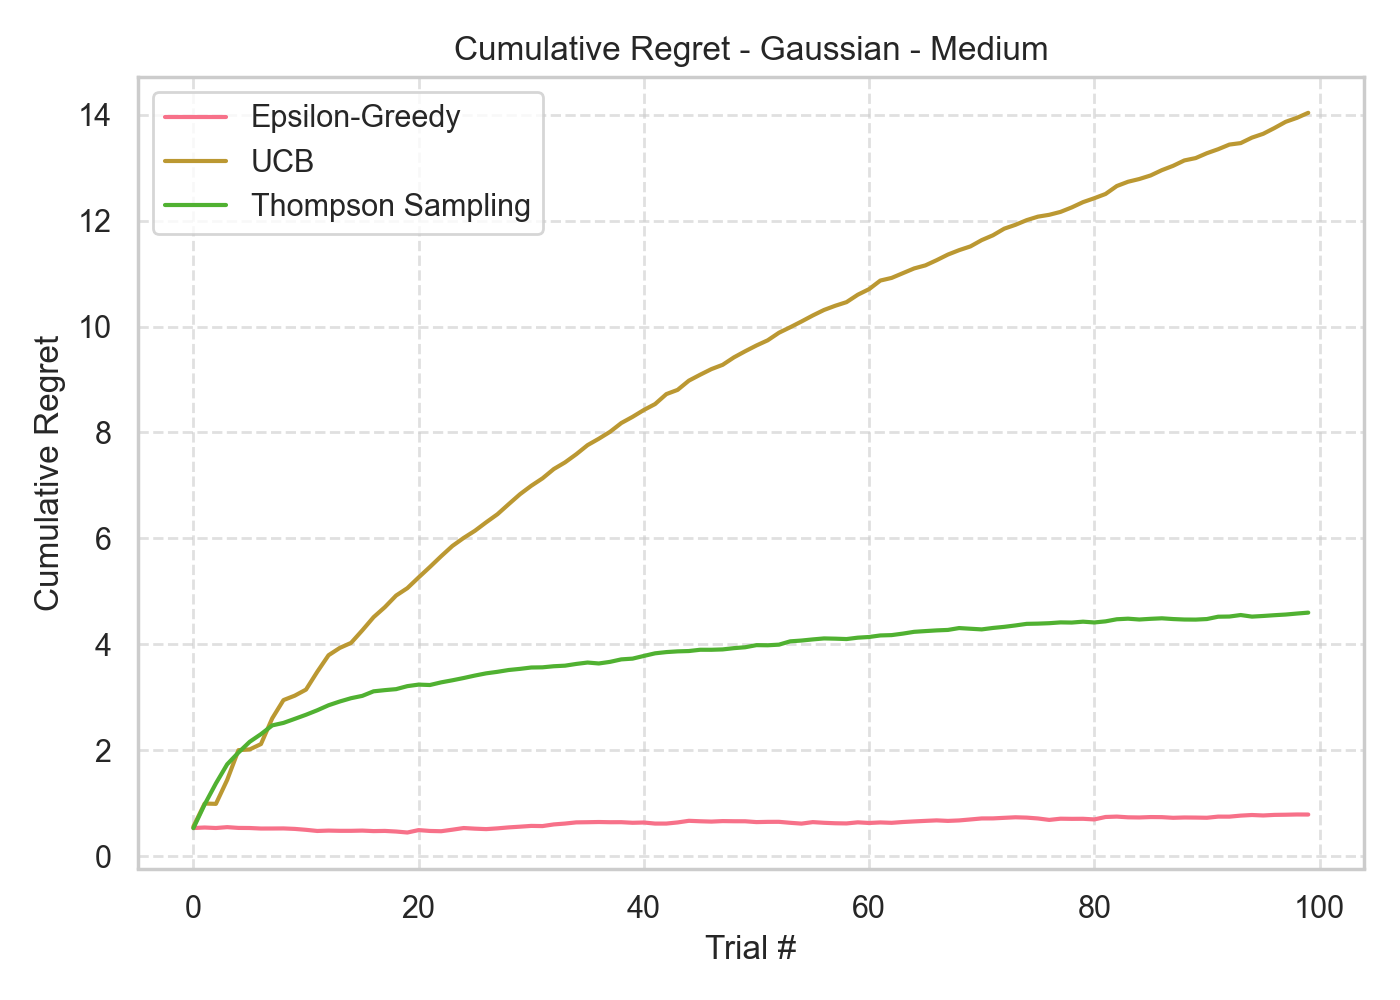
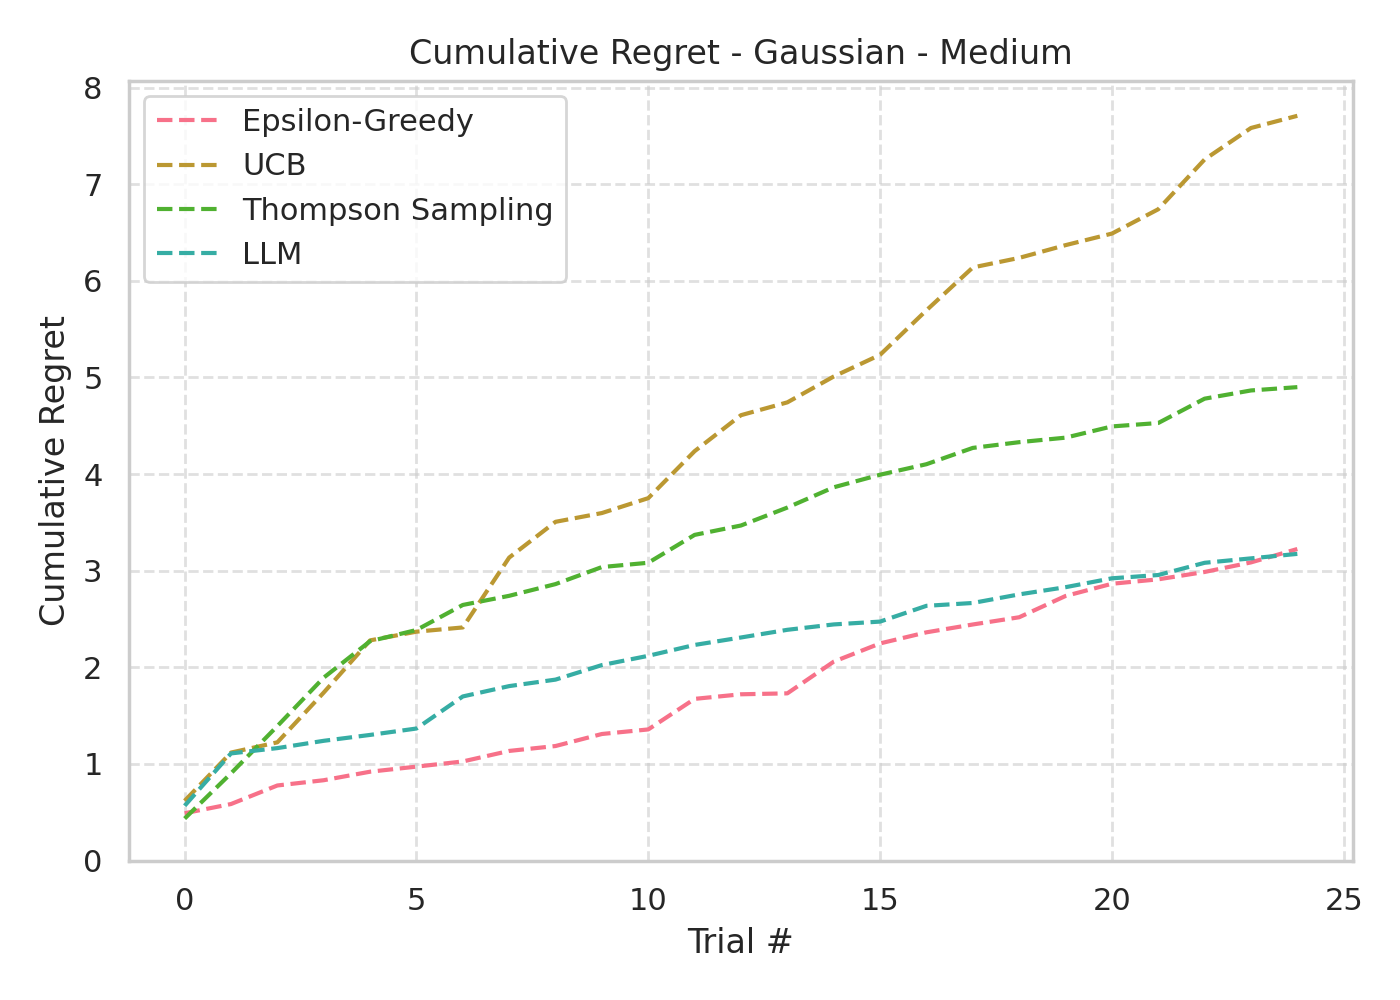
Updates on The Scenarios and their Plots

diff --git a/scenario.py b/scenario.py
@@ -2,7 +2,7 @@ import numpy as np
 import matplotlib.pyplot as plt
 from typing import List, Tuple, Dict, Optional
 import seaborn as sns
-# from agents.llm_agent import LLMAgent  # Commented out LLM agent
+from agents.llm_agent import LLMAgent
 from agents.epsilon import EpsilonGreedyAgent
 from agents.gaussian_epsilon_greedy import GaussianEpsilonGreedyAgent
 from agents.ucb import UCBAgent
@@ -38,7 +38,7 @@ class BanditScenario:
             'Epsilon-Greedy': EpsilonGreedyAgent(epsilon=0.1, environment_type='bernoulli'),
             'UCB': UCBAgent(),
             'Thompson Sampling': ThompsonSamplingAgent(environment_type='bernoulli'),
-            # 'LLM': LLMAgent(model="gpt-4.1-nano"),  # Commented out LLM agent
+            'LLM': LLMAgent(model="gpt-4.1-nano"),
         }
         
         # Initialize agents for Gaussian bandit
@@ -46,7 +46,7 @@ class BanditScenario:
             'Epsilon-Greedy': GaussianEpsilonGreedyAgent(n_arms=n_arms, epsilon=0.1),
             'UCB': GaussianUCBAgent(n_arms=n_arms),
             'Thompson Sampling': GaussianThompsonSamplingAgent(n_arms=n_arms),
-            # 'LLM': LLMAgent(model="gpt-4.1-nano"),  # Commented out LLM agent
+            'LLM': LLMAgent(model="gpt-4.1-nano"),
         }
         
         # Set up plotting style
@@ -152,17 +152,45 @@ class BanditScenario:
                 results[agent_name][episode, :] = rewards
         return results, optimal_per_episode
         
+    def calculate_cumulative_regret(self, rewards, optimal_rewards):
+        """Calculate cumulative regret ensuring it's non-decreasing.
+        
+        Args:
+            rewards: Array of shape (n_episodes, n_trials) with rewards for each trial
+            optimal_rewards: Array of shape (n_episodes,) with optimal reward for each episode
+            
+        Returns:
+            Array of shape (n_episodes, n_trials) with cumulative regret
+        """
+        n_episodes, n_trials = rewards.shape
+        cumulative_regret = np.zeros_like(rewards)
+        
+        for ep in range(n_episodes):
+            optimal = optimal_rewards[ep]
+            regret = np.maximum(0, optimal - rewards[ep])  # Ensure non-negative regret
+            cumulative_regret[ep] = np.cumsum(regret)
+            
+            # Ensure regret is non-decreasing (handle any numerical issues)
+            for t in range(1, n_trials):
+                if cumulative_regret[ep, t] < cumulative_regret[ep, t-1]:
+                    cumulative_regret[ep, t] = cumulative_regret[ep, t-1]
+                    
+        return cumulative_regret
+
     def plot_cumulative_regret(self, results, optimal_per_episode, scenario, env_type):
         plt.figure(figsize=(7, 5))
         for agent_name, rewards in results.items():
-            regret = np.cumsum(optimal_per_episode[:, None] - rewards, axis=1)
-            mean_regret = regret.mean(axis=0)
-            plt.plot(mean_regret, label=agent_name, linestyle='--')  # Use dashed lines
+            # Calculate cumulative regret
+            cumulative_regret = self.calculate_cumulative_regret(rewards, optimal_per_episode)
+            mean_regret = cumulative_regret.mean(axis=0)
+            plt.plot(mean_regret, label=agent_name, linestyle='--')
+            
         plt.title(f'Cumulative Regret - {env_type} - {scenario.capitalize()}')
         plt.xlabel('Trial #')
         plt.ylabel('Cumulative Regret')
         plt.legend()
         plt.grid(True, linestyle='--', alpha=0.6)
+        plt.ylim(bottom=0)  # Ensure y-axis starts at 0
         plt.tight_layout()
         plt.savefig(os.path.join(self.plot_dir, f'cumulative_regret_{env_type}_{scenario}.png'), dpi=200)
         plt.close()
@@ -182,24 +210,29 @@ class BanditScenario:
         scenarios = ['easy', 'hard']
         results_list = [easy_results, hard_results]
         optimal_list = [easy_optimal, hard_optimal]
-        for i, (results, optimal, scenario) in enumerate(zip(results_list, optimal_list, scenarios)):
-            plt.subplot(1, 2, i+1)
+        
+        for i, (results, optimal, scenario) in enumerate(zip(results_list, optimal_list, scenarios), 1):
+            plt.subplot(1, 2, i)
             for agent_name, rewards in results.items():
-                regret = np.cumsum(optimal[:, None] - rewards, axis=1)
-                mean_regret = regret.mean(axis=0)
+                # Calculate cumulative regret using the proper method
+                cumulative_regret = self.calculate_cumulative_regret(rewards, optimal)
+                mean_regret = cumulative_regret.mean(axis=0)
                 plt.plot(mean_regret, label=agent_name, linestyle='--')
+                
             plt.title(f'{env_type} - {scenario.capitalize()}')
             plt.xlabel('Trial #')
             plt.ylabel('Cumulative Regret')
             plt.legend()
             plt.grid(True, linestyle='--', alpha=0.6)
+            plt.ylim(bottom=0)  # Ensure y-axis starts at 0
+            
         plt.tight_layout()
         plt.savefig(os.path.join(self.plot_dir, f'{env_type.lower()}_easy_hard_subplot.png'), dpi=200)
         plt.close()
 
 def main():
     scenarios = ['easy', 'medium', 'hard', 'uniform']
-    bandit_scenario = BanditScenario(n_trials=1000, n_episodes=200)
+    bandit_scenario = BanditScenario(n_trials=25, n_episodes=10)
     regret_summary = {'Bernoulli': [], 'Gaussian': []}
     bernoulli_results_dict = {}
     bernoulli_optimal_dict = {}
@@ -217,13 +250,13 @@ def main():
         bandit_scenario.plot_cumulative_regret(gaussian_results, gaussian_optimal, scenario, 'Gaussian')
         gaussian_results_dict[scenario] = gaussian_results
         gaussian_optimal_dict[scenario] = gaussian_optimal
-        # For heatmap: store final cumulative regret for each agent (use per-episode optimal)
+        # For heatmap: store final cumulative regret for each agent
         regret_summary['Bernoulli'].append([
-            np.mean(np.cumsum(bernoulli_optimal[:, None] - bernoulli_results[agent], axis=1)[:, -1])
+            bandit_scenario.calculate_cumulative_regret(bernoulli_results[agent], bernoulli_optimal)[:, -1].mean()
             for agent in bandit_scenario.bernoulli_agents.keys()
         ])
         regret_summary['Gaussian'].append([
-            np.mean(np.cumsum(gaussian_optimal[:, None] - gaussian_results[agent], axis=1)[:, -1])
+            bandit_scenario.calculate_cumulative_regret(gaussian_results[agent], gaussian_optimal)[:, -1].mean()
             for agent in bandit_scenario.gaussian_agents.keys()
         ])
     # Plot heatmaps

diff --git a/agents/llm_agent.py b/agents/llm_agent.py
@@ -39,7 +39,7 @@ class LLMAgent(BaseAgent):
         self._counts = None
         self._action_history = []
         self._reward_history = []
-        self._context_window = 20  # Increased context window
+        self._context_window = 100# Increased context window
         self._last_api_call = 0
         self._min_call_interval = 0.1  # 100ms between API calls to avoid rate limiting
         
